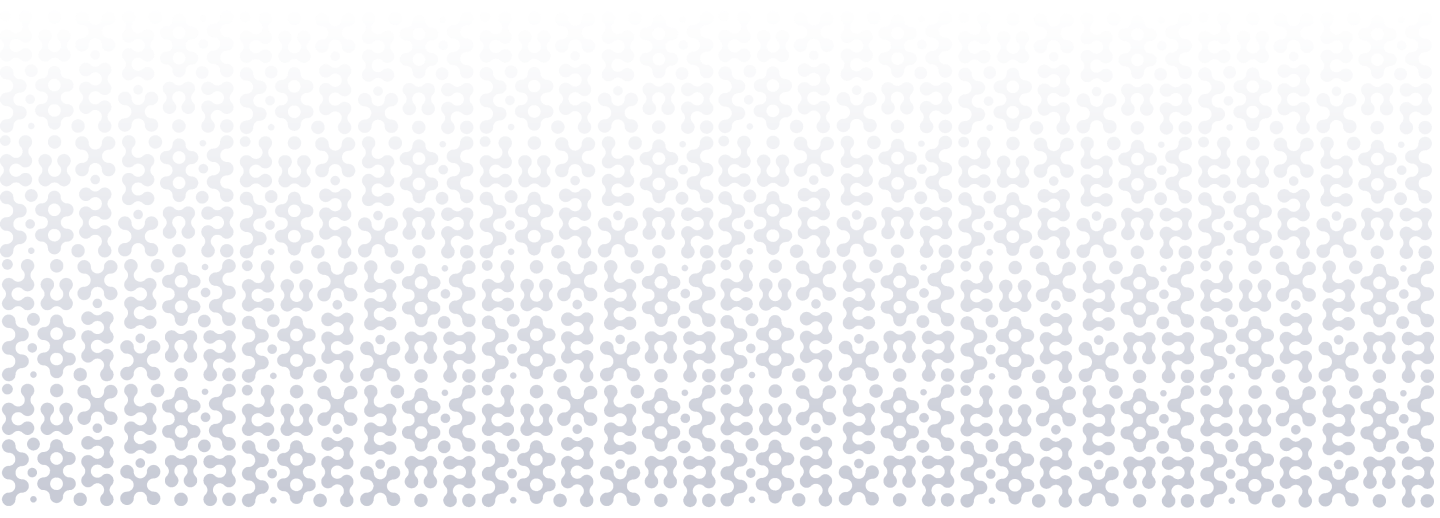
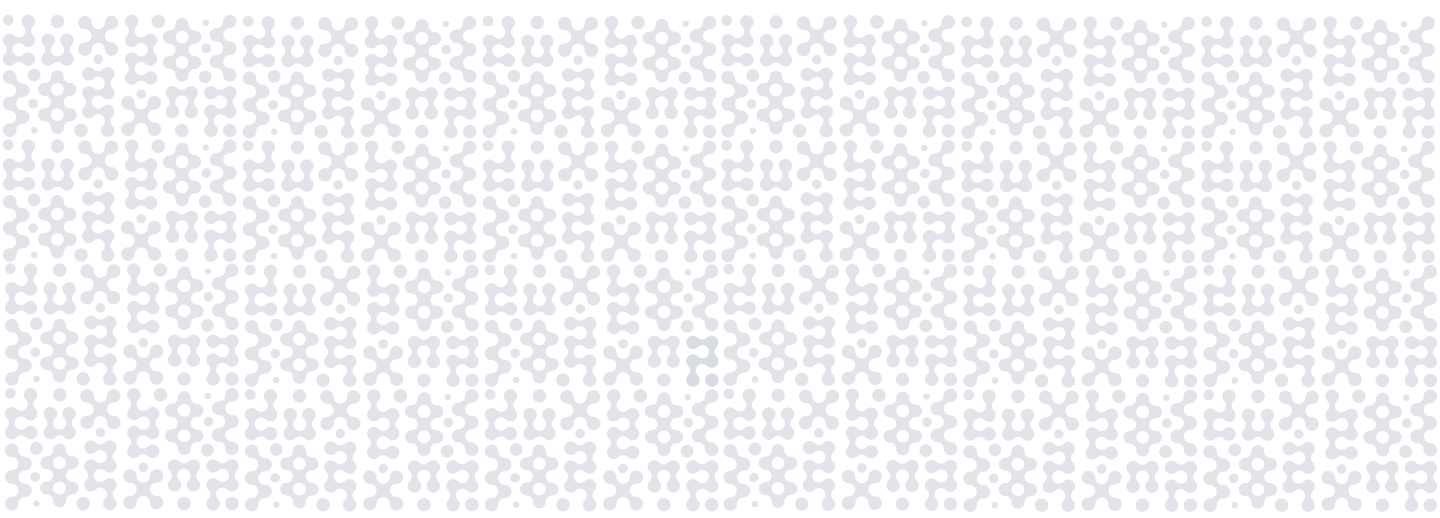
update healthcare page

Changed region(s): [[0.0, 0.0309, 1.0, 0.9884]]

diff --git a/app/healthcare/Pregnancy.tsx b/app/healthcare/Pregnancy.tsx
@@ -2,26 +2,32 @@ import Image from "next/image";
 
 export default function Pregnancy() {
   return (
-    <section className="section"> 
-      <div className="grid sm:grid-cols-2 place-items-center gap-8">
-        <div className="pl-5">
-          <div className="font-medium sm:text-[1.875rem] text-[1.5rem] mb-5">
-            PeckiiLess AB is a Deeptech startup developing a patent-pending
-            technology for nanosensor-based multi-selective gas detection. Our
-            innovative gas detection system opens doors to efficient and
-            non-invasive monitoring of glucose and cholesterol levels, promising
-            accurate results that revolutionize both industrial and healthcare
-            applications.
-          </div>
-        </div>
-        <div className="p-14 md:w-3/4">
+    <section className="bg-patternLady bg-no-repeat bg-contain  bg-bottom">
+      <p className="font-medium text-[3.75rem] text-primary-800 leading-[3.75rem] p-20">
+        Here at Pickiless we have created the one of the first advanced
+        breathalyzer that can monitor your glucose levels.{" "}
+      </p>
+      <div className="grid sm:grid-cols-2 ">
+        <div className="px-40 justify-self-end">
           <Image
             src="/pregnant.png"
-            width={350}
-            height={600}
+            width={550}
+            height={960}
             alt="logo"
             priority={true}
           />
+        </div>
+        <div className="text-right px-40 py-10">
+          <p className="font-medium text-[3.75rem] text-primary-800 leading-[3.75rem] pb-10">
+            Living with Diabetes
+          </p>
+          <p className="text-[1.625rem] font-medium  ">
+            Pregnant women living with diabetes increases risks of
+            complications, having a cesarean delivery, increases babies’ risk of
+            being born too large and developing obesity or type 2 diabetes in
+            the future. But by using breathalyzer she has a less intrusive way
+            of monitor her glucose levels multiple times a day.
+          </p>
         </div>
       </div>
     </section>

diff --git a/app/healthcare/ProductBanner.tsx b/app/healthcare/ProductBanner.tsx
@@ -1,17 +1,50 @@
+import Image from "next/image";
 import CustomButton from "../components/CustomButton";
 
 export default function ProductBanner() {
   return (
-    <section
-      id="section1"
-      className="bg-productInfo bg-contain bg-right bg-no-repeat h-[50rem]"
-    >
-      <div className="place-self-center  lg:col-span-4 p-44 ">
-        <CustomButton
-          title="More Information"
-          containerStyles="bg-primary-700 font-medium text-[1.625rem] text-white rounded-[2.5rem] py-7 px-12 leading-10"
-        />
+    // <section
+    //   id="section1"
+    //   className="bg-productInfo bg-contain bg-right bg-no-repeat h-[50rem]"
+    // >
+    //   <div className="place-self-center  lg:col-span-4 p-44 ">
+    //     <CustomButton
+    //       title="More Information"
+    //       containerStyles="bg-primary-700 font-medium text-[1.625rem] text-white rounded-[2.5rem] py-7 px-12 leading-10"
+    //     />
+    //   </div>
+    // </section>
+
+    <div className="">
+      <div className="grid md:grid-cols-2 gap-2">
+        <div className="place-self-center pl-20">
+          <p className="font-bold text-[3.75rem] text-primary-800 pb-10">
+            Breathalyzer
+          </p>
+          <p className="text-[1.625rem] font-medium w-[60%]">
+            Here is a prototype of our Breathalyzer, click bellow to get for
+            information about how to use the device and how it works with the
+            mobile application.
+          </p>
+
+          <div className="place-self-center lg:col-span-4 p-20">
+            <CustomButton
+              title="More Information"
+              containerStyles="bg-primary-700 font-medium text-[1.625rem] text-white rounded-[2.5rem] py-7 px-12 leading-10"
+            />
+          </div>
+        </div>
+
+        <div className="">
+          <Image
+            src="/product.png"
+            width={1000}
+            height={464}
+            alt="logo"
+            priority={true}
+          />
+        </div>
       </div>
-    </section>
+    </div>
   );
 }

diff --git a/app/healthcare/HealthcareBanner.tsx b/app/healthcare/HealthcareBanner.tsx
@@ -2,13 +2,21 @@ import Image from "next/image";
 
 export default function HealthcareBanner() {
   return (
-    <section
-      id="section1"
-      className="bg-healthcare bg-contain bg-center bg-no-repeat h-[calc(100vh-4.6875rem)]"
-     
-    >
-      
-    </section>
+    <>
+      <div className="bg-healthcare bg-contain bg-center bg-no-repeat h-[calc(100vh-4.6875rem)]" />
 
+      <div className="p-20 mx-auto bg-primary-200 rounded-[3.125rem]">
+        <p className="font-medium text-[3.75rem] text-primary-800 leading-[3.75rem] w-[70%] pb-10">
+          Over 500 million people suffer from type some form of diabetes.
+        </p>
+        <p className="text-[1.625rem] font-medium w-[60%]">
+          Both the number of cases and the prevalence of diabetes have been
+          steadily increasing over the past few decades. Testing and monitoring
+          of these illnesses have gotten stuck in development for years upon
+          years, it’s time to globalize an easier option for monitoring your
+          glucose testing in an easy, effecient way.
+        </p>
+      </div>
+    </>
   );
 }

diff --git a/tailwind.config.js b/tailwind.config.js
@@ -33,7 +33,8 @@ module.exports = {
         healthcare: "url('/adam.png')",
         productInfo: "url('/product.png')",
         productInfoBanner: "url('/blowing.png')",
-        productInfoPattern: "url('/pattern-lady.png')",
+        productInfoPattern: "url('/pattern-lady2.png')",
+        patternLady: "url('/pattern-lady.png')",
         productPackage: "url('/package1.png')",
         footer: "url('/footer.png')",
       },

diff --git a/app/product/ProductPackage.tsx b/app/product/ProductPackage.tsx
@@ -2,7 +2,6 @@ import Image from "next/image";
 
 export default function ProductPackage() {
   return (
-    // <section className="h-screen bg-contain  bg-bottom  bg-productPackage  bg-no-repeat"></section>
     <div className="p-20">
       <div className="grid md:grid-cols-2 place-items-center gap-20">
         <div className="">

diff --git a/app/components/Navbar.tsx b/app/components/Navbar.tsx
@@ -10,7 +10,6 @@ export default function Navbar() {
   const [active, setActive] = useState(false);
 
   const links = [
-    { path: "/", label: "Home" },
     { path: "/healthcare", label: "Healthcare" },
     { path: "/industry", label: "Industry" },
     { path: "/sustainability", label: "Sustainability" },
